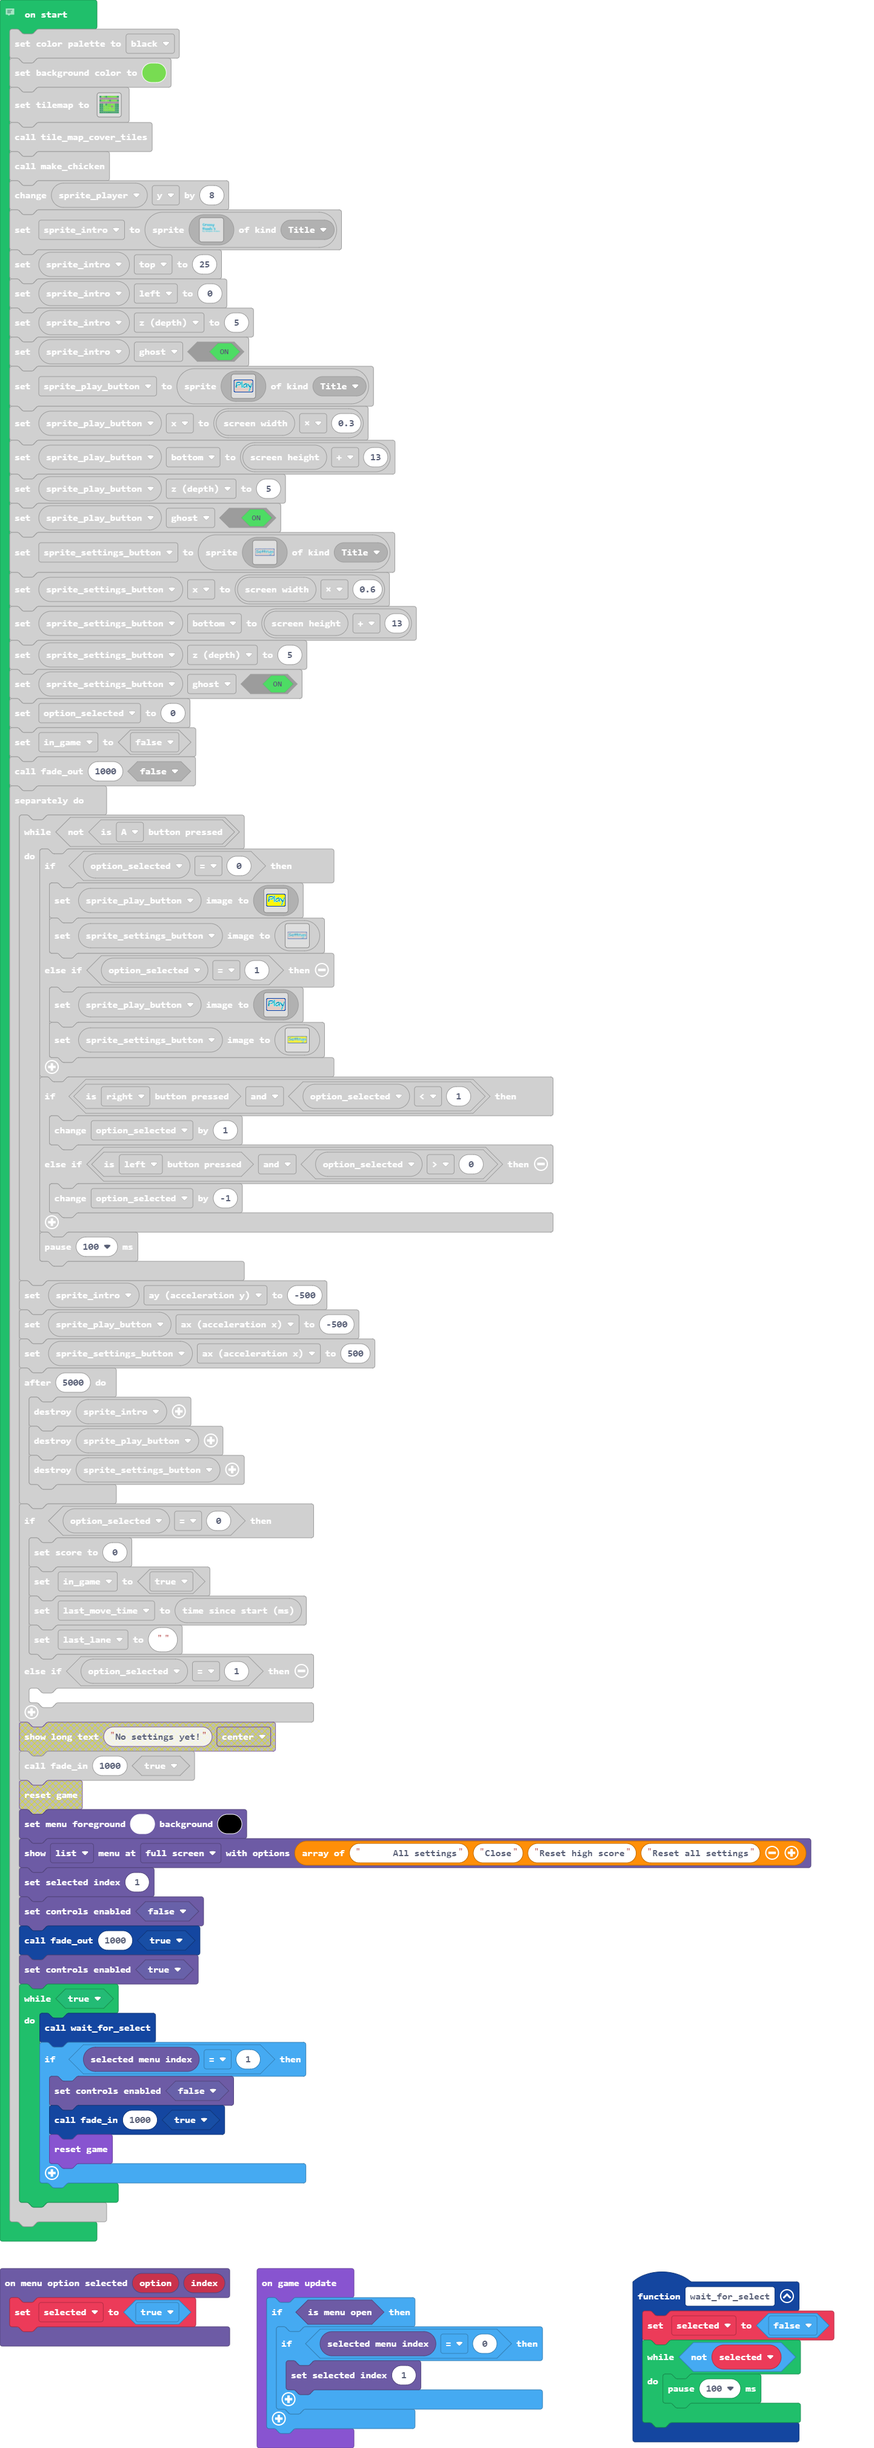
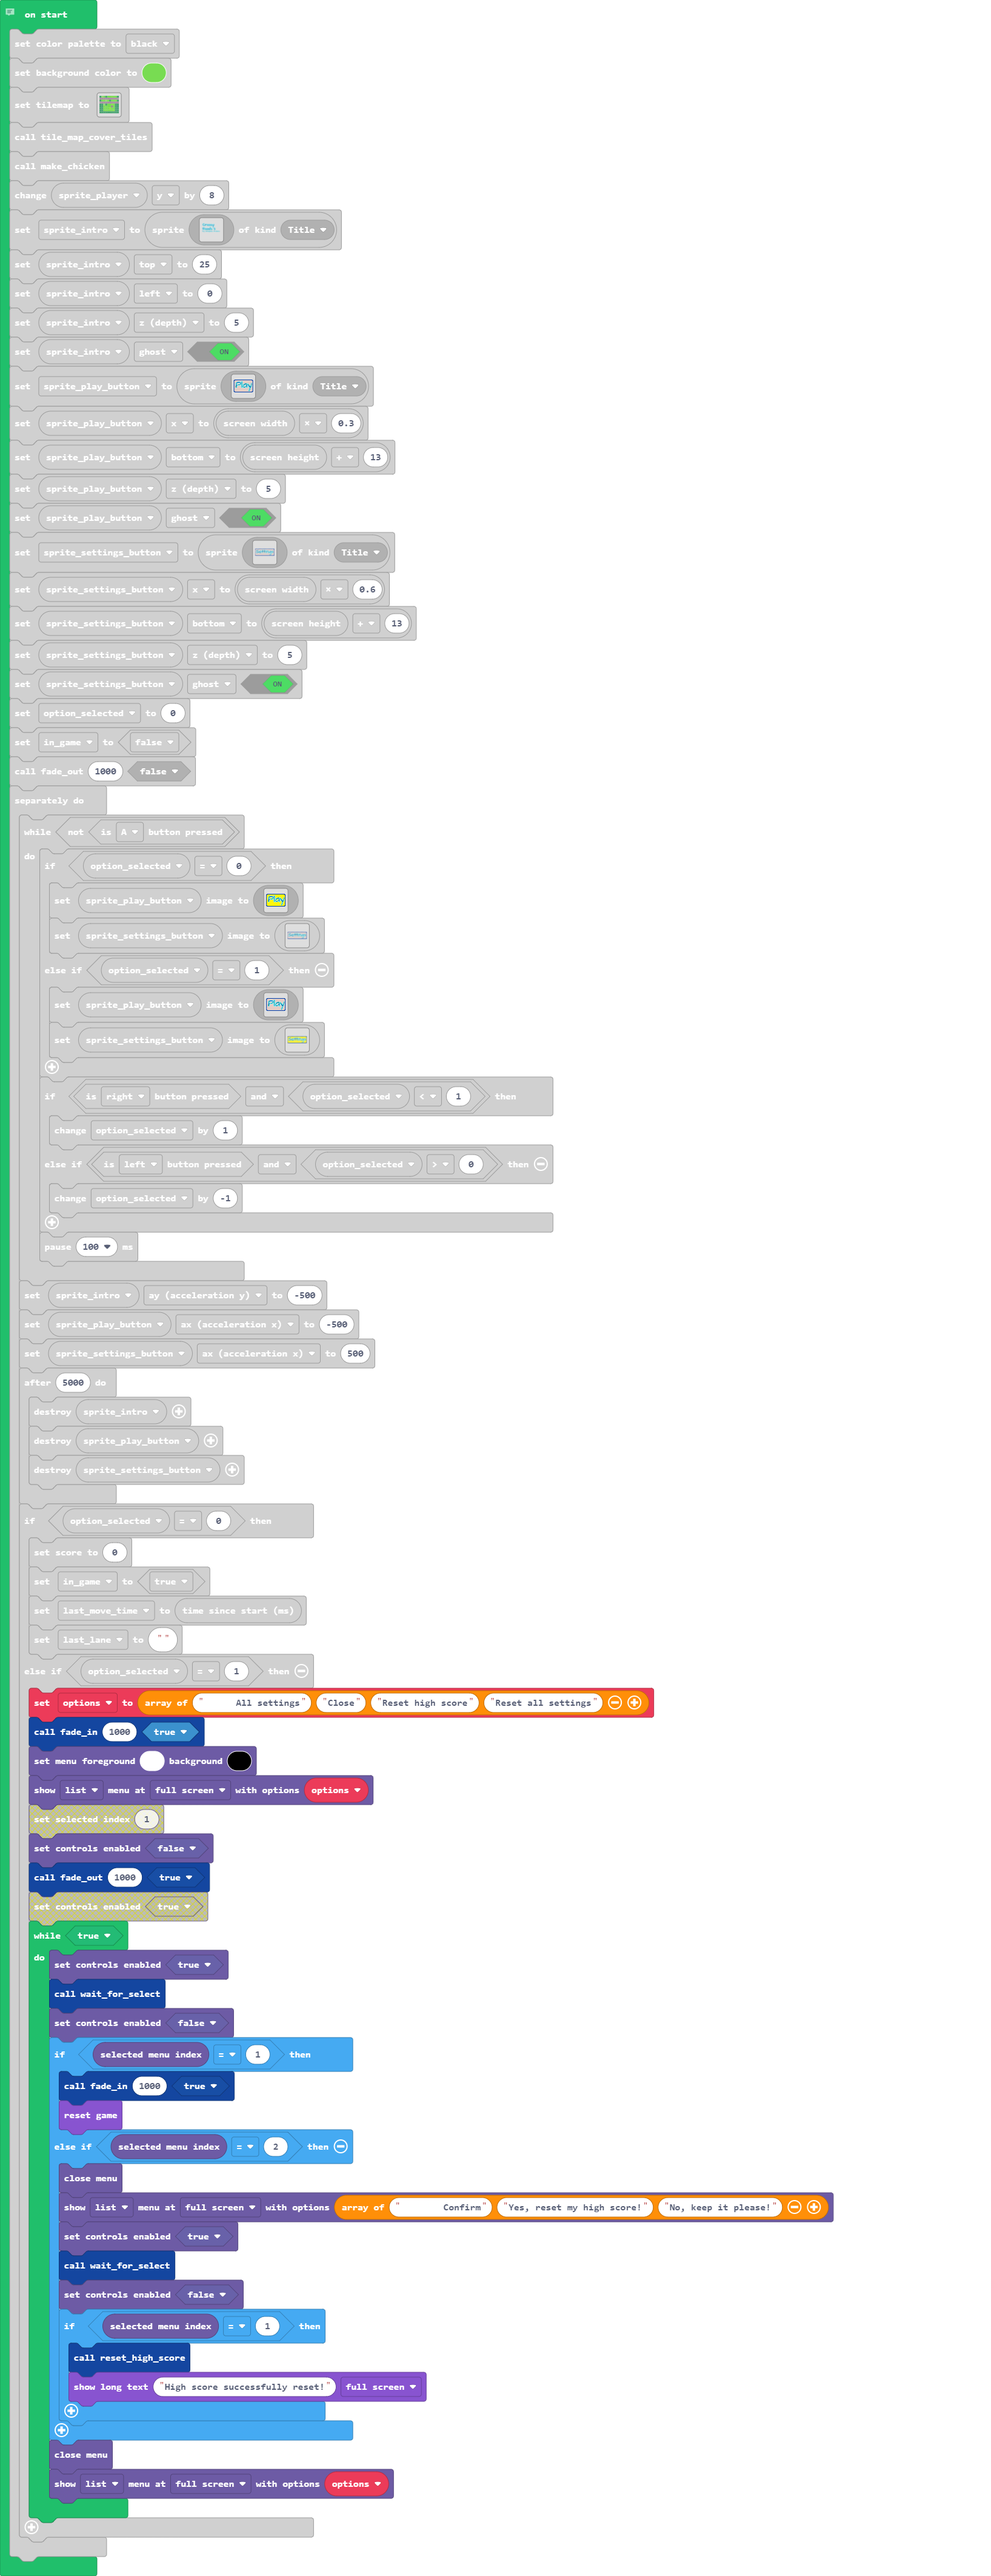
Can reset high score

Changed region(s): [[0.0, 0.0, 0.9362, 1.0], [0.7178, 0.9051, 0.9674, 0.9988]]

diff --git a/main.ts b/main.ts
@@ -471,6 +471,7 @@ let sprite_tile_cover: Sprite = null
 let sprite_high_score: TextSprite = null
 let sprite_high_score_text: Sprite = null
 let random_col = 0
+let options: string[] = []
 let last_lane = ""
 let last_move_time = 0
 let in_game = false
@@ -531,20 +532,32 @@ timer.background(function () {
         last_move_time = game.runtime()
         last_lane = ""
     } else if (option_selected == 1) {
+        options = ["      All settings", "Close", "Reset high score", "Reset all settings"]
         fade_in(1000, true)
         blockMenu.setColors(1, 15)
-        blockMenu.showMenu(["      All settings", "Close", "Reset high score", "Reset all settings"], MenuStyle.List, MenuLocation.FullScreen)
-        blockMenu.setSelectedIndex(1)
+        blockMenu.showMenu(options, MenuStyle.List, MenuLocation.FullScreen)
         blockMenu.setControlsEnabled(false)
         fade_out(1000, true)
-        blockMenu.setControlsEnabled(true)
         while (true) {
+            blockMenu.setControlsEnabled(true)
             wait_for_select()
+            blockMenu.setControlsEnabled(false)
             if (blockMenu.selectedMenuIndex() == 1) {
-                blockMenu.setControlsEnabled(false)
                 fade_in(1000, true)
                 game.reset()
+            } else if (blockMenu.selectedMenuIndex() == 2) {
+                blockMenu.closeMenu()
+                blockMenu.showMenu(["        Confirm", "Yes, reset my high score!", "No, keep it please!"], MenuStyle.List, MenuLocation.FullScreen)
+                blockMenu.setControlsEnabled(true)
+                wait_for_select()
+                blockMenu.setControlsEnabled(false)
+                if (blockMenu.selectedMenuIndex() == 1) {
+                    reset_high_score()
+                    game.showLongText("High score successfully reset!", DialogLayout.Full)
+                }
             }
+            blockMenu.closeMenu()
+            blockMenu.showMenu(options, MenuStyle.List, MenuLocation.FullScreen)
         }
     }
 })
